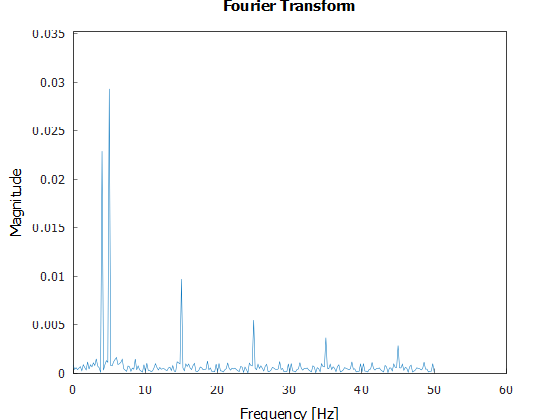
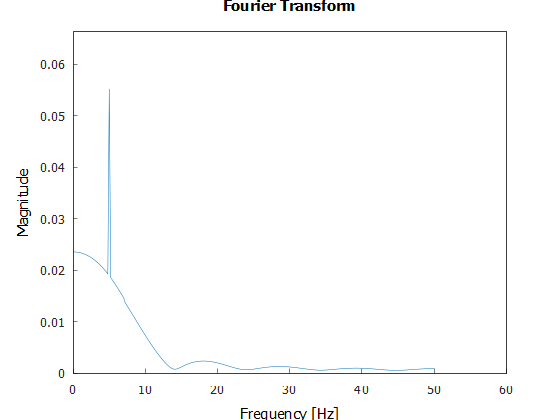
filtr działa;

diff --git a/src/test.py b/src/test.py
@@ -42,7 +42,7 @@ try:
     signallist = []
     signallist.append(example.Signal(freaquency, faze, signal_type))
     fourierlist = []
-    wybor = input("podaj wybór (g - generuj drugi sygnał, f - filtruj, p - plotuj, pf- plotuj transformaty, dft - transformata Fouriera, rdft - odwrotna transformata Fouriera): ")
+    wybor = input("podaj wybór (g - generuj drugi sygnał, f - filtruj, add - dodaj dwa sygnały, p - plotuj, pf- plotuj transformaty, dft - transformata Fouriera, rdft - odwrotna transformata Fouriera): ")
     while wybor!="q": #wielkie menu tylko że to pyton
         if wybor == "g":
             freaquency = float(input("podaj częstotliwość sygnału: "))
@@ -52,10 +52,8 @@ try:
         elif wybor=="add":
             signallist.append(example.Signal((signallist[wypiszelementy(signallist)]),signallist[wypiszelementy(signallist)]))
         elif wybor == "f":
-            filter_type = input("podaj typ filtru (lowpass, highpass): ")
             cutoff_frequency = float(input("podaj częstotliwość odcięcia: "))
-            filtered_signal = example.filter_signal(wypiszelementy(signallist), filter_type, cutoff_frequency)
-            plot = example.plot_signal(filtered_signal)
+            signallist.append(example.filter((signallist[wypiszelementy(signallist)]),cutoff_frequency))
         elif wybor == "p":
             print("Wybierz sygnał do wyświetlenia:")
             example.plot_signal(signallist[wypiszelementy(signallist)])

diff --git a/src/filtering1d.cpp b/src/filtering1d.cpp
@@ -1,0 +1,28 @@
+
+#include <iostream>
+#include <vector>
+#include <string>
+#include <cmath>
+#include <complex>
+#include "headers.h"
+Signal filter(Signal signal,double cutoff_hz) {
+    Fourier transformata(signal);
+     int M  = signal.samples.size();  // liczba próbek
+    double fs = N;                   // globalne N = częst. próbkowania [Hz]
+    double df = fs / M;              // odstęp między kolejnymi binami
+
+    // 1) DFT
+    
+
+    // 2) zerowanie składowych |f| > cutoff_hz
+    for (int k = 0; k < M; ++k) {
+        // wyznacz rzeczywistą częstotliwość binu k:
+        double freq = k * df;
+        if (k >= M/2)             // biny 'użyteczne' w drugiej połowie to odpowiedniki negatywnych freq
+            freq = (k - M) * df;  
+        if (std::abs(freq) > cutoff_hz) {
+            transformata.X[k] = {0.0, 0.0};
+        }
+    }Signal filtered_signal("Filtered " + signal.name, transformata);
+    return (filtered_signal);
+}

diff --git a/src/headers.h b/src/headers.h
@@ -12,13 +12,13 @@ std::vector<double> generate(double f, double t_start,std::string name);
 std::vector<double> addsignals(Signal signal1, Signal signal2); //dodawanie sygnałów
 std::vector<std::complex<double>> dft(Signal signal);
 std::vector<double> idft(Fourier fourier);
+Signal filter(Signal signal, double cutoff_hz); //filtracja sygnału
 constexpr double PI = 3.14159265358979323846; //absurdalnie dużo cyfr liczby pi
 constexpr int N = 100;  // ilość próbek na sekundę
 constexpr double T=5.0;
 class Signal { //używane do generowania sygnałów
 public:
     double f; //częstotliwość
-    double T;
     std::string name;
     std::vector<double> samples;
     //nadpisywanie maina
@@ -33,7 +33,7 @@ public:
 class Fourier { //używane do transformacji w obie strony
 public:
     std::vector<std::complex<double>> X;
-    double T;
+
     Fourier(const Signal& signal);
 
     ~Fourier() ;

diff --git a/src/main.cpp b/src/main.cpp
@@ -50,5 +50,7 @@ PYBIND11_MODULE(example, m) { //test
         pybind11::arg("fourier"));
     m.def("addsignals", &addsignals, "Add two signals",
         pybind11::arg("signal1"), pybind11::arg("signal2"));
+    m.def("filter", &filter, "Filter signal with a cutoff frequency",
+        pybind11::arg("signal"), pybind11::arg("cutoff_hz"));
 
 }
